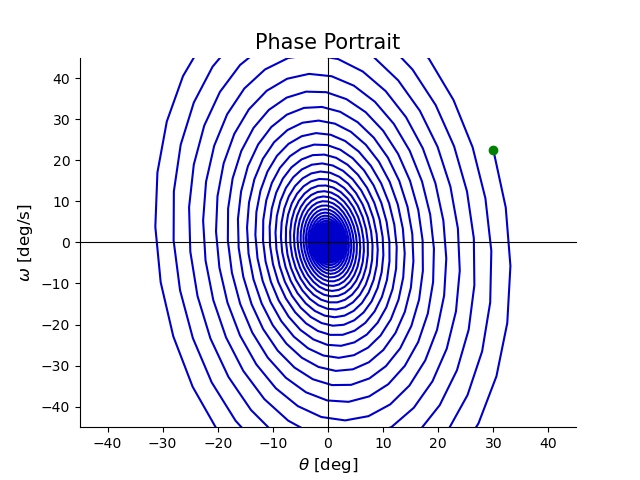
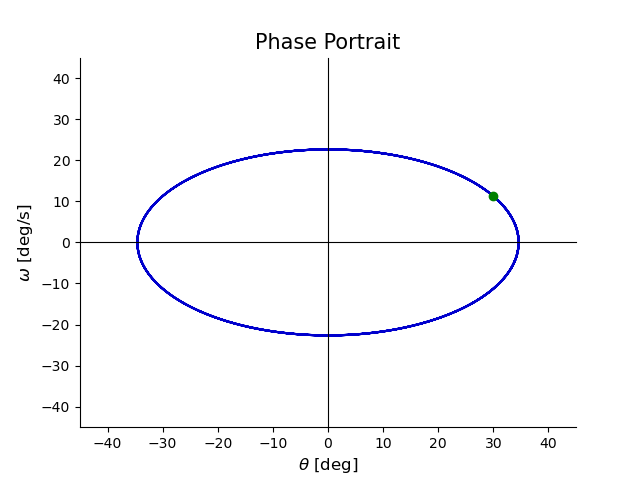
FIXED LOOP ISSUE (dt)

Changed region(s): [[0.1875, 0.125, 0.8125, 0.9062], [0.4688, 0.125, 0.5, 0.1562]]

diff --git a/fsfb_model.py b/fsfb_model.py
@@ -9,11 +9,11 @@ I = 2333
 
 # FSFB GAINS
 k1 = 1000
-k2 = 0.05
+k2 = 0
 
 # INITIAL CONDITION
 theta_0 = np.pi/6 # rad
-omega_0 = np.pi/8 # rad/sec
+omega_0 = np.pi/16 # rad/sec
 
 # define / initialize error
 # this is not used to 
@@ -21,7 +21,7 @@ err = np.sqrt(theta_0**2 + omega_0**2)
 
 # initialize time and interval tracker
 t = np.array([0])
-dt = 0.1
+dt = 0.0001
 i = 0
 
 # initialize the states
@@ -35,7 +35,7 @@ while err > 0.001:
 
     # calculate next state
     next_theta = theta[i] + omega[i]*dt
-    next_omega = omega[i] + ( (-k1/I)*theta[i] - (k2*omega[i]) )
+    next_omega = omega[i] + ( (-k1/I)*theta[i] - (k2*omega[i]) )*dt
 
     # add next state to array
     theta = np.append(theta, next_theta)
@@ -48,7 +48,7 @@ while err > 0.001:
     t = np.append(t, t[i]+dt)
     i += 1
 
-    if t[i] > 10000:
+    if t[i] >= 50:
         print("It took too long!")
         break
 
@@ -103,5 +103,11 @@ ax2.set_xlabel(r"$\theta$ [deg]", fontsize=12)
 ax2.set_ylabel(r"$\omega$ [deg/s]", fontsize=12)
 
 fig2.savefig("figs/phase_portrait")
+
+Acl = np.array([  [0, 1],
+                [-k1/I, -k2/I]
+            ])
+
+print("eigenvalues", np.linalg.eig(Acl)[0])
 
 plt.show()
